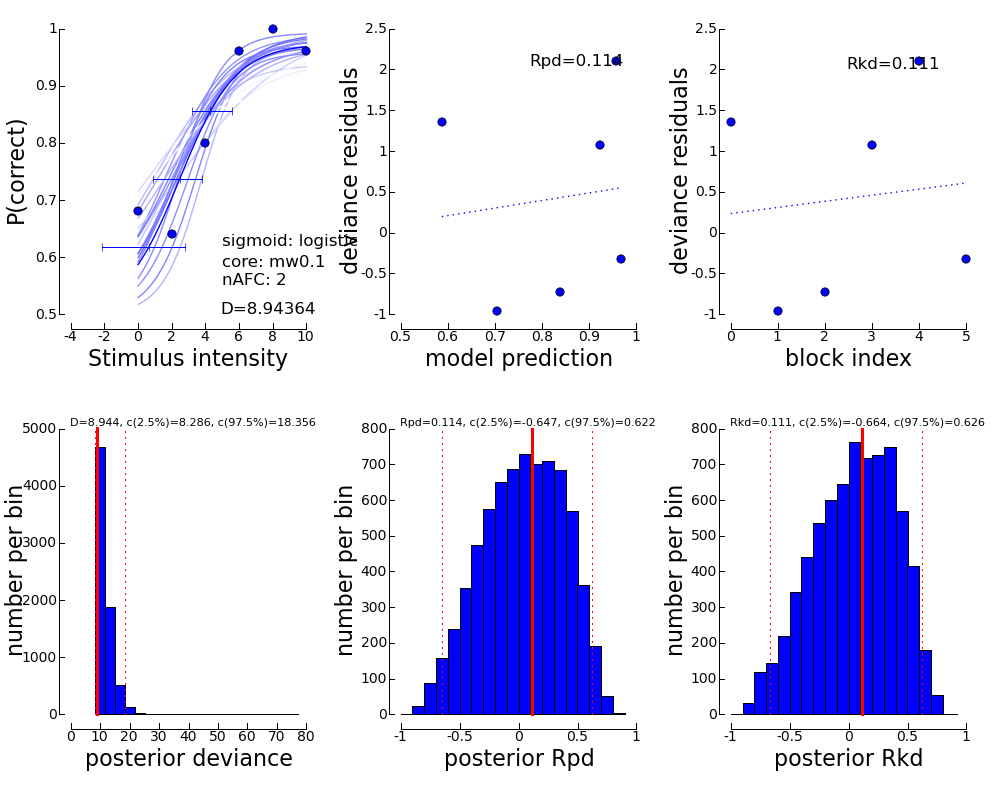
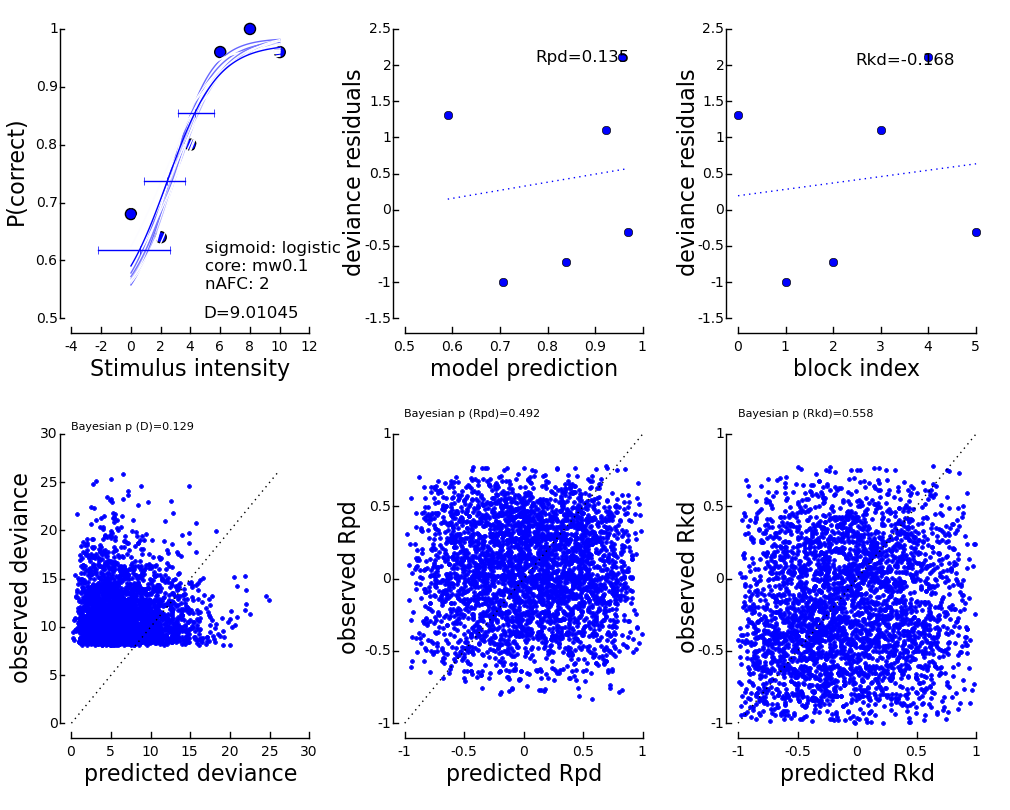
[DOC] modified TUTORIAL to incorporate posterior predictives

diff --git a/doc-src/TUTORIAL.rst b/doc-src/TUTORIAL.rst
@@ -359,17 +359,22 @@ saturation correspond to samples from the posterior distribution. The saturation
 is proportional to the likelihood of the psychometric function, that is the part of the posterior
 distribution that represents the influence of the data.
 
-The plot on the lower left is the posterior distribution of deviance. Note that in this case, the
-distribution does not correspond to a null hypothesis but to the posterior distribution induced by the
-data. Thus, values lower than the deviance corresponding to the maximum likelihood will not be
-possible by definition. The two plots of posterior correlation between model prediction and deviance
-residuals and between block index and deviance residuals are essentially the same as for the constrained
-maximum likelihood case only that model predictions and deviance residuals correspond to the mean of
-the posterior distribution in this case. The posterior histograms of correlation between model
-prediction and deviance residuals and block index and deviance residuals have to be interpreted in
-a slightly different way: These histograms now represent the *posterior* distribution of the respective
-correlations. Thus, the value 0 should be in the 95% credibility interval of these posterior
-distributions to indicate the absense of systematic model errors.
+The plot on the lower left shows posterior predictive deviances. For each sample from the posterior
+distribution, a data set has been generated. The deviance associated the posterior samples and the
+observed data set is plotted against the deviance of these simulated data sets for the psychometric
+functions associated with the samples from the posterior distribution. If the observed data are
+likeli to come from the fitted model, all the  points in this plot should lie around the diagnonal. If
+the plots are mainly above the diagonal, the deviances of the observed data are higher than expected for
+data the originate from the fitted model. It is possible to calculate a "Bayesian p-value" that lies
+between 0 and 1. Values close to 0 or 1 indicate a bad fit in this case.
+
+The two plots of posterior correlation between model prediction and deviance residuals and between block
+index and deviance residuals are essentially the same as this plot. The only difference is, that
+in this case it is not the deviance that is calculated for each posterior predictive sample but it is
+the respective correlation. Interpretation of these plots is analog to the interpretation of the respective
+plot for the posterior deviance.
+
+We can observe that in all cases, the fitted model describes the data reasonably well.
 
 Posterior distributions
 -----------------------
